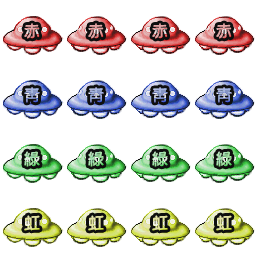
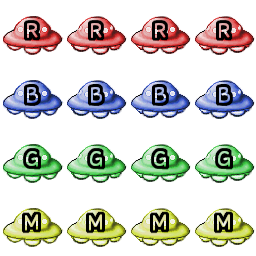
change kanji to alphabet

diff --git a/ufo_vivid/files.js b/ufo_vivid/files.js
@@ -1,6 +1,6 @@
 {
 	"patch.js": 1950621488,
 	"th12/bullet/etama8.png": 1208293634,
-	"th12/enemy/ufo_anim.png": 1606103867,
+	"th12/enemy/ufo_anim.png": 2613652824,
 	"th12/front/front00.png": 136556848
 }
